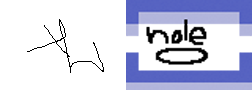
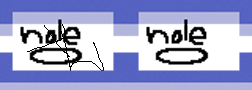
working last index animation

diff --git a/src/main.js b/src/main.js
@@ -79,33 +79,34 @@ function main() {
       let monitorView = document.querySelector("#monitor");
       
       game.rooms.forEach(function(ele, index) {
-        
-        // if (game.adventureStep < index){
-        //   return;
-        // }
-        
-        
-        // if (index === 0 || game.rooms[index].visited) {
-          //   game.rooms[0].value = "start";//start
-          //   game.rooms[0].visited = true;
-          // } else {
-            game.rooms[index].value = ele.value;
-            game.rooms[index].visited = true;
-            // } 
-            
-            if (!game.rooms[index].visited){
-              var anim =  "";
-              anim = "animation: play 0.8s steps(2) 2";
-              
-            }
-            
-            console.log("game.adventureStep " + game.adventureStep + " index " + index);
-            console.log("monitor ele value: " + ele.value);
-            
-        result += `
-        <div class="room ${game.adventureStep}" style="background-image: url(img/${ele.value}_room_open.png) ${anim}"></div>`;
 
-      
+        if (game.adventureStep < index){
+          return;
+        }
+
+        var anim =  "";
+        console.log("room: visited: " + game.rooms[index].visited + " value: " +game.rooms[index].value);
+
+
+        if (!game.rooms[index].visited){
+          anim ='animation: play 0.8s steps(2) 2'; 
+          game.rooms[index].value = cardValue;
+          game.rooms[index].visited = true;
+          result += `
+          <div class="room ${game.adventureStep}" style="background-image:url(img/${cardValue}_room_open.png); ${anim}" ><h2>${index}</h2></div>`;
+          console.log("result string: " + result);
+
+          game.visitedRoomsValue[index] = [game.rooms[index].value];
+        } else {
+          result += `
+        <div class="room ${game.adventureStep}" style="background-image:url(img/${game.visitedRoomsValue[index]}_room_open.png); ${anim}" ><h2>${index}</h2></div>`;
+        }
+
+            console.log("game.adventureStep " + game.adventureStep + " index " + index);
+            console.log("monitor ele value: " + ele.value + " " +cardValue);
+            console.log("anim: " + anim);
+            console.log("--------------------");
+
       });
       monitorView.innerHTML = result;
     }

diff --git a/css/style.css b/css/style.css
@@ -61,12 +61,12 @@ h2{
 }
 
 .room {
-  border: solid 1px white;
+  border: solid 1px grey;
   /* margin: 0;
   padding: 0;
   height: auto;
-  background-repeat: no-repeat;
-  background-size: 100%;  */
+  background-repeat: no-repeat;*/
+  /* background-size: 100%;  */
   /* animation: play 0.8s steps(2) 2; */
 
 }

diff --git a/src/game.js b/src/game.js
@@ -8,6 +8,7 @@ function Game(player, newCardsStack, newRooms) {
   this.usedCards = [];
   this.adventureStep = 0;
   this.rooms = newRooms;
+  this.visitedRoomsValue =[];
   this.callback = null;
 }
 
